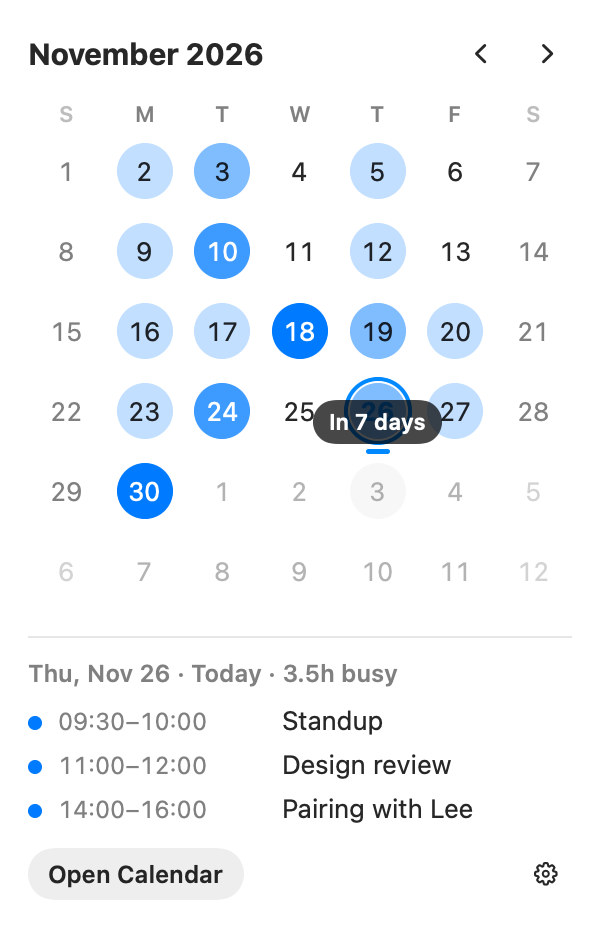
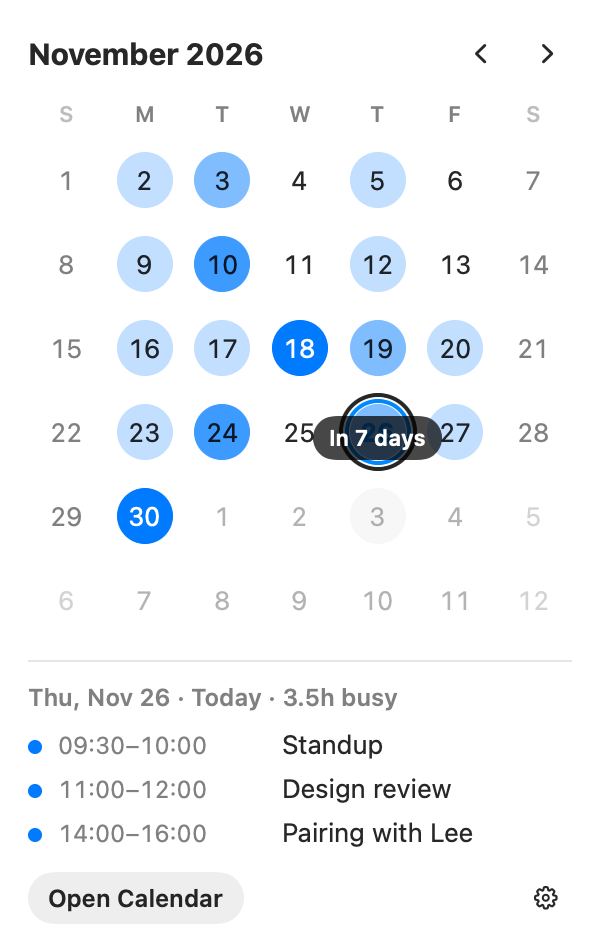
feat(app): today gets an accent ring; selection is a neutral ring (no underline)

diff --git a/App/Views/DayCell.swift b/App/Views/DayCell.swift
@@ -12,31 +12,31 @@ struct DayCell: View {
         let isSelected = model.selectedDay == day.date
         let isHovered = model.hoveredDay == day.date
         let level = model.busy(for: day.date).level
-        VStack(spacing: 5) {
-            Text("\(number)")
-                .font(.system(size: 13, weight: day.isToday ? .bold : .regular).monospacedDigit())
-                .foregroundStyle(HeatDot.textColor(level: level, isToday: day.isToday,
-                                                   isWeekend: model.isDimmedWeekend(day.date)))
-                .frame(width: 28, height: 28)
-                .background {
-                    // The heat: a filled circle behind the date, brighter for busier days.
-                    Circle().fill(level > 0 ? HeatDot.color(level: level)
-                                            : Color.primary.opacity(isHovered ? 0.1 : 0))
+        Text("\(number)")
+            .font(.system(size: 13, weight: day.isToday ? .bold : .regular).monospacedDigit())
+            .foregroundStyle(HeatDot.textColor(level: level, isToday: day.isToday,
+                                               isWeekend: model.isDimmedWeekend(day.date)))
+            .frame(width: 28, height: 28)
+            .background {
+                // The heat: a filled circle behind the date, brighter for busier days.
+                Circle().fill(level > 0 ? HeatDot.color(level: level)
+                                        : Color.primary.opacity(isHovered ? 0.1 : 0))
+            }
+            .overlay {
+                // Today: an accent ring just outside the date.
+                if day.isToday {
+                    Circle().strokeBorder(Color.accentColor, lineWidth: 2).frame(width: 33, height: 33)
                 }
-                .overlay {
-                    if isSelected {
-                        Circle()
-                            .strokeBorder(Color.accentColor, lineWidth: 2)
-                            .frame(width: 34, height: 34)
-                    }
+            }
+            .overlay {
+                // Selected: a neutral ring, outside today's ring when both apply.
+                if isSelected {
+                    let size: CGFloat = day.isToday ? 39 : 33
+                    Circle().strokeBorder(Color.primary, lineWidth: 2).frame(width: size, height: size)
                 }
-            // Today: a short accent bar under the date.
-            Capsule()
-                .fill(day.isToday ? Color.accentColor : Color.clear)
-                .frame(width: 12, height: 2.5)
-        }
+            }
         .frame(maxWidth: .infinity)
-        .frame(height: 38)
+        .frame(height: 40)
         .opacity(day.isInMonth ? 1 : 0.35)
         .contentShape(Rectangle())
         .onHover { inside in
